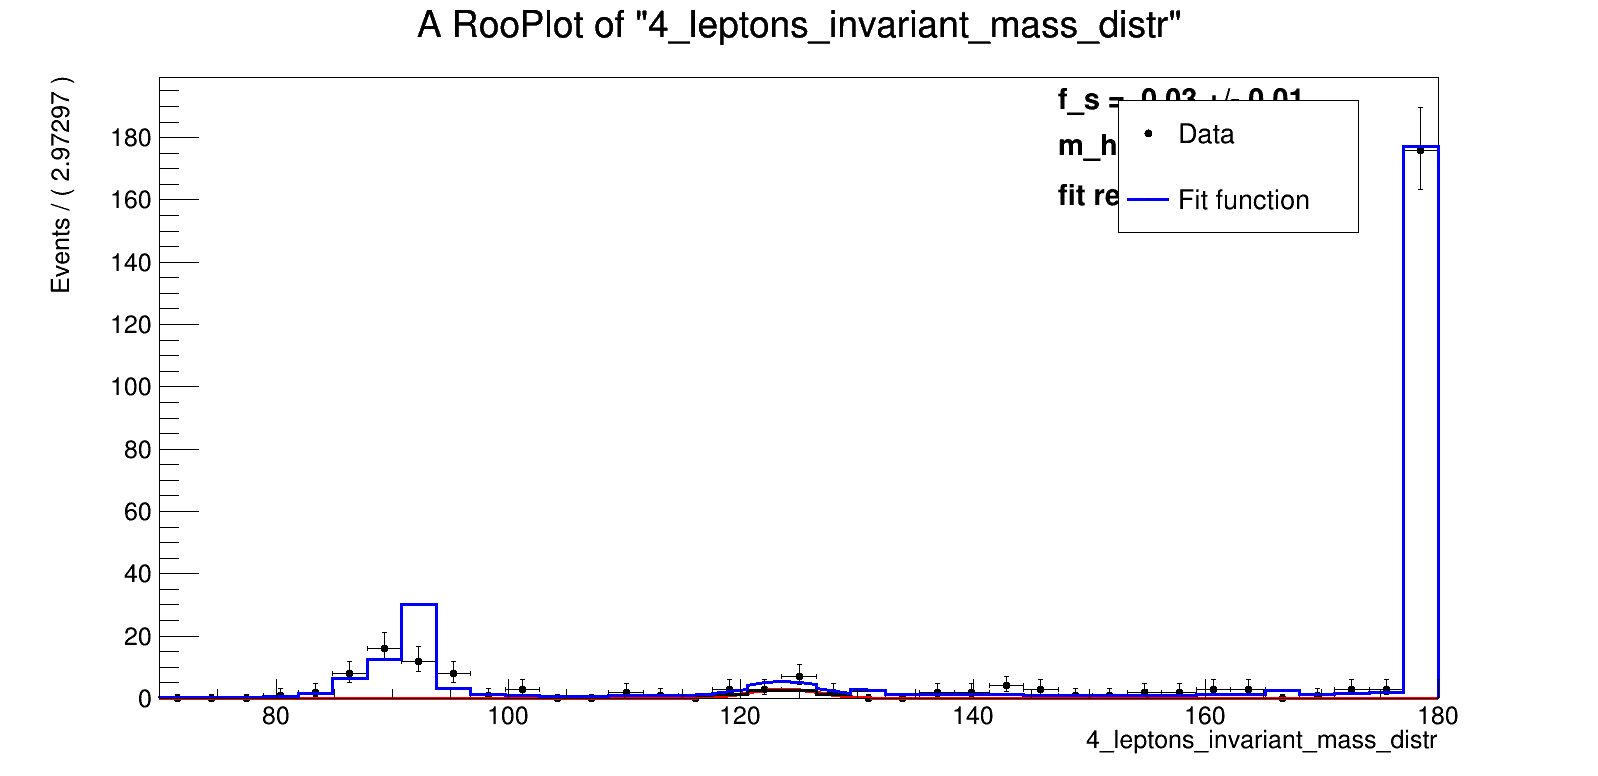
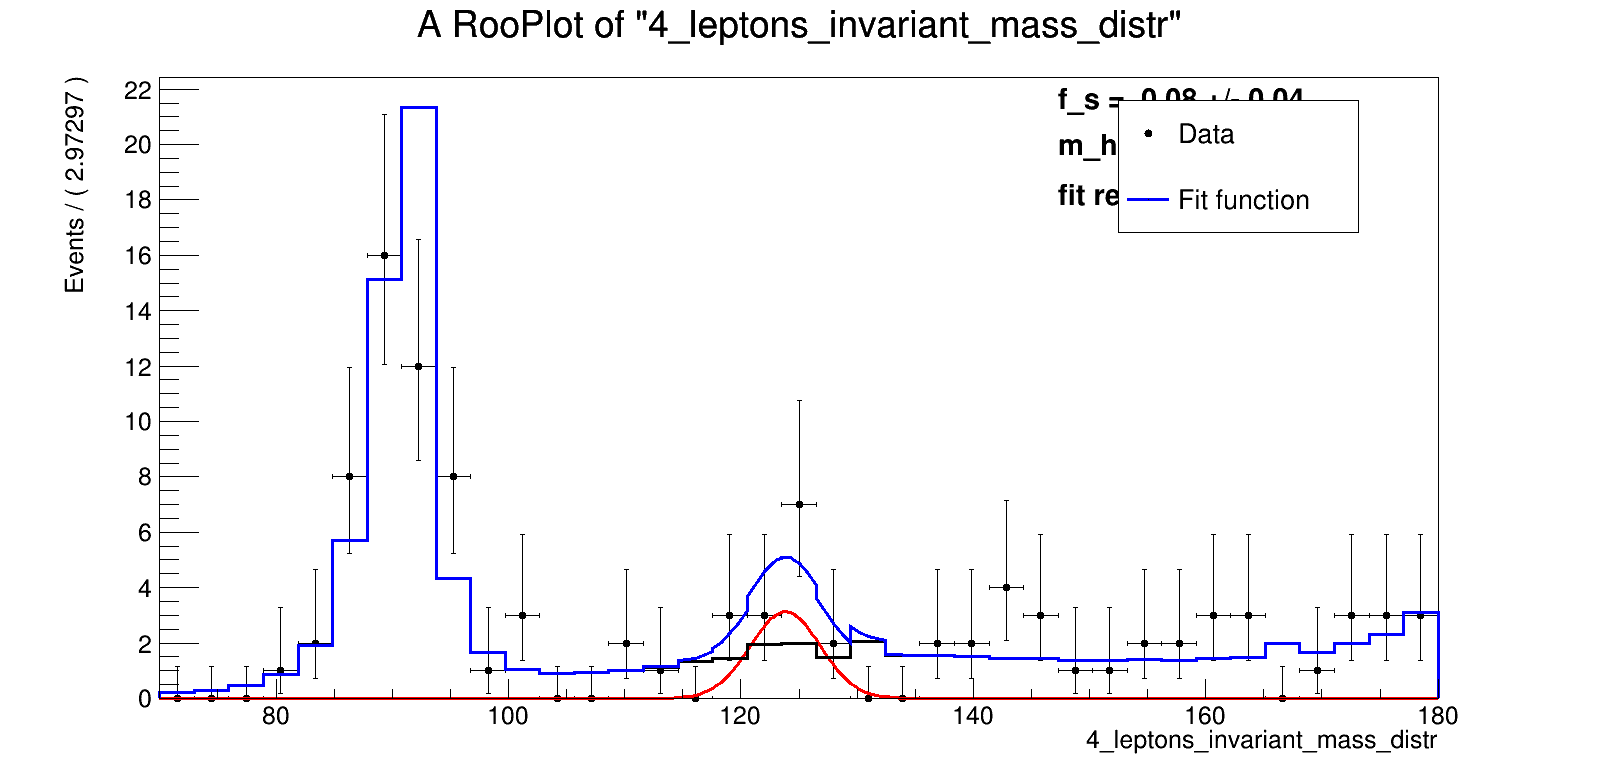
Last overflow point removed from datahist

diff --git a/higgs/higgs_CMS.cpp b/higgs/higgs_CMS.cpp
@@ -21,8 +21,11 @@ using namespace RooStats;
 
 int higgs_CMS() {
     //Declaring the observable
-    RooRealVar inv_mass ("inv_mass", "4_leptons_invariant_mass_distr", 70., 180.);
-    inv_mass.setBins(37);
+    Double_t low_lim = 70.;
+    Double_t upp_lim = 180.;
+    RooRealVar inv_mass ("inv_mass", "4_leptons_invariant_mass_distr", low_lim, upp_lim);
+    Int_t n_bins = 37;
+    inv_mass.setBins(n_bins);
 
     // Importing the data
     RooDataHist inv_mass_dh ("inv_mass_dh", "histo_inv_mass", inv_mass);
@@ -31,32 +34,48 @@ int higgs_CMS() {
     RooDataHist DY_dh("DY_dh", "histo_DY", inv_mass);  
 
     ifstream f1("_cms_higgs_data.txt");
-    Double_t v, w; // basterebbe una dichiarazione, poi cambiano sempre valore, anche per nome file
+    Double_t v, w; 
     while(!f1.eof()) {
         f1 >> v >> w;
-        inv_mass.setVal(v);
-        inv_mass_dh.set(inv_mass, w);
+        if (v > low_lim && v < upp_lim) { // double-checking for underflow/overflow values
+            inv_mass.setVal(v);
+            inv_mass_dh.set(inv_mass, w);
+        } else {
+            continue;
+        }
     }
 
     ifstream f2("_cms_higgs_TTbarto4l.txt");
     while(!f2.eof()) {
         f2 >> v >> w;
-        inv_mass.setVal(v);
-        ttbar_dh.set(inv_mass, w);
+        if (v > low_lim && v < upp_lim) {
+            inv_mass.setVal(v);
+            ttbar_dh.set(inv_mass, w);
+        } else {
+            continue;
+        }
     }
   
     ifstream f3("_cms_higgs_ZZto4l.txt");
     while(!f3.eof()) {
         f3 >> v >> w;
-        inv_mass.setVal(v);
-        ZZ_dh.set(inv_mass, w);
+        if (v > low_lim && v < upp_lim) {
+            inv_mass.setVal(v);
+            ZZ_dh.set(inv_mass, w);
+        } else {
+            continue;
+        }
     }
 
     ifstream f4("_cms_higgs_DYto4l.txt");
     while(!f4.eof()) {
         f4 >> v >> w;
-        inv_mass.setVal(v);
-        DY_dh.set(inv_mass, w);
+        if (v > low_lim && v < upp_lim) {
+            inv_mass.setVal(v);
+            DY_dh.set(inv_mass, w);
+        } else {
+            continue;
+        }
     }
     
     //Building background distributions from data
@@ -74,18 +93,19 @@ int higgs_CMS() {
 
 
     RooAddPdf bkg_model ("bkg_model", "background_model", RooArgList(hpdf_ttbar, hpdf_DY, hpdf_ZZ), RooArgList(f_ttbar, f_DY));
-    RooPlot *higgs1 = inv_mass.frame();
-    ttbar_dh.plotOn(higgs1, Name("Data"));
-    bkg_model.plotOn(higgs1, Name("Model Fit")); 
-    bkg_model.plotOn(higgs1, Components(hpdf_ttbar), LineColor(kViolet-1), Name("tt"));
-    bkg_model.plotOn(higgs1, Components(hpdf_DY), LineColor(kViolet-1), Name("dy"));
-    bkg_model.plotOn(higgs1, Components(hpdf_ZZ), LineColor(kMagenta), Name("zz"));
 
-    TCanvas *c = new TCanvas("c", "HIGGS", 1600, 800);
-    higgs1->Draw();
+    // RooPlot *higgs1 = inv_mass.frame();
+    // ttbar_dh.plotOn(higgs1, Name("Data"));
+    // bkg_model.plotOn(higgs1, Name("Model Fit")); 
+    // bkg_model.plotOn(higgs1, Components(hpdf_ttbar), LineColor(kViolet-1), Name("tt"));
+    // bkg_model.plotOn(higgs1, Components(hpdf_DY), LineColor(kViolet-1), Name("dy"));
+    // bkg_model.plotOn(higgs1, Components(hpdf_ZZ), LineColor(kMagenta), Name("zz"));
+
+    // TCanvas *c = new TCanvas("c", "HIGGS", 1600, 800);
+    // higgs1->Draw();
 
     // Building signal + background model
-    RooRealVar m_higgs ("m_higgs", "Higgs_mass", 125., 110., 140);
+    RooRealVar m_higgs ("m_higgs", "Higgs_mass", 125., 110., 140.);
     RooConstVar sigma_higgs ("sigma_higgs", "Higgs_mass_sigma", 3.); //fixed to 3 GeV
     RooRealVar f_s ("f_s", "signal_fraction", 0.5, 0., 1.);
     RooGaussian gaus_higgs ("gaus_higgs", "higgs_signal_distr", inv_mass, m_higgs, sigma_higgs);
@@ -113,7 +133,7 @@ int higgs_CMS() {
     leg1->AddEntry("Model Fit", "Fit function", "LP");
    
     leg1->Draw("SAME");
-    c1->Print("higgs.png");    
+    c1->Print("higgs.png");  
 
    // result->Print("v"); 
 
@@ -141,6 +161,10 @@ int higgs_CMS() {
     // RooAbsReal* pll = ll->createProfile(m_higgs);
 
     ws.writeToFile("higgs_CMS.root", true);
+
+    for (Int_t i = 0; i < n_bins; ++i) {
+        cout << inv_mass_dh.weight(i) << '\n';
+    }
 
     return 0;
 }
